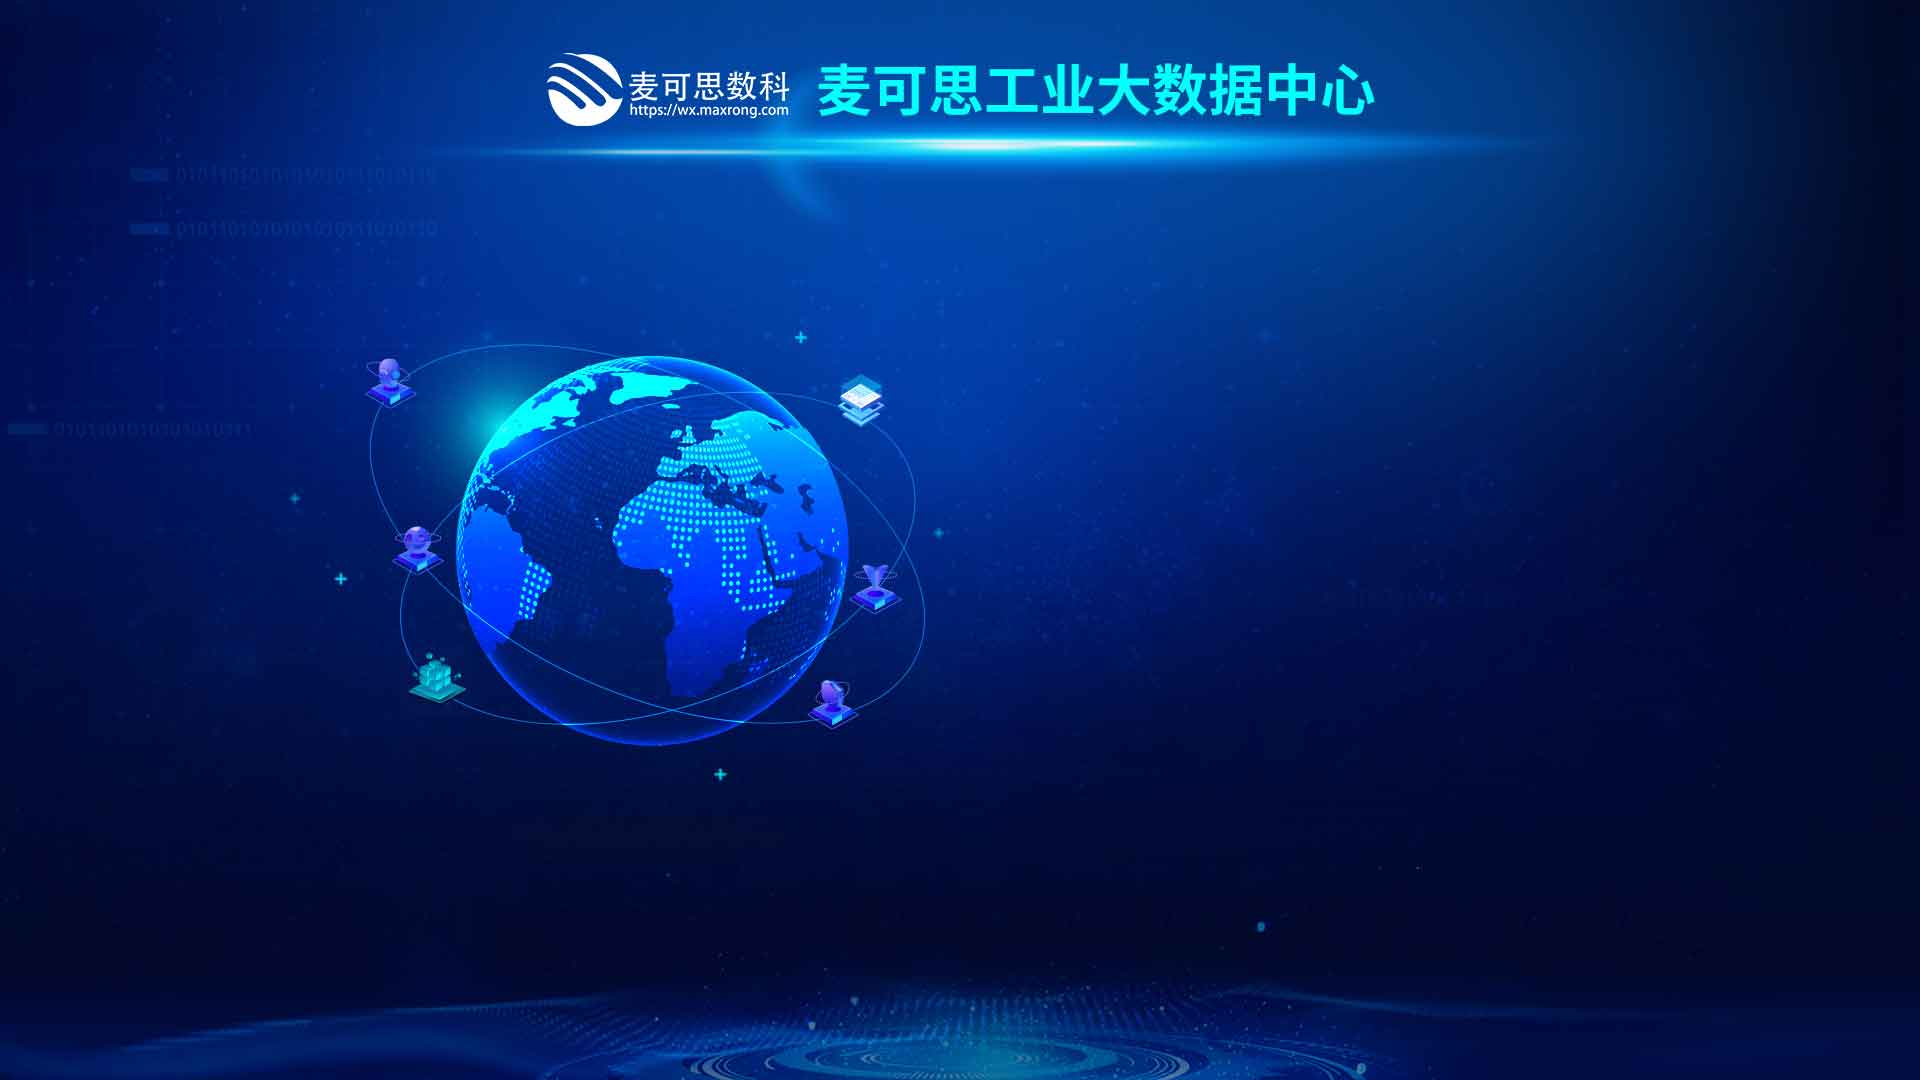
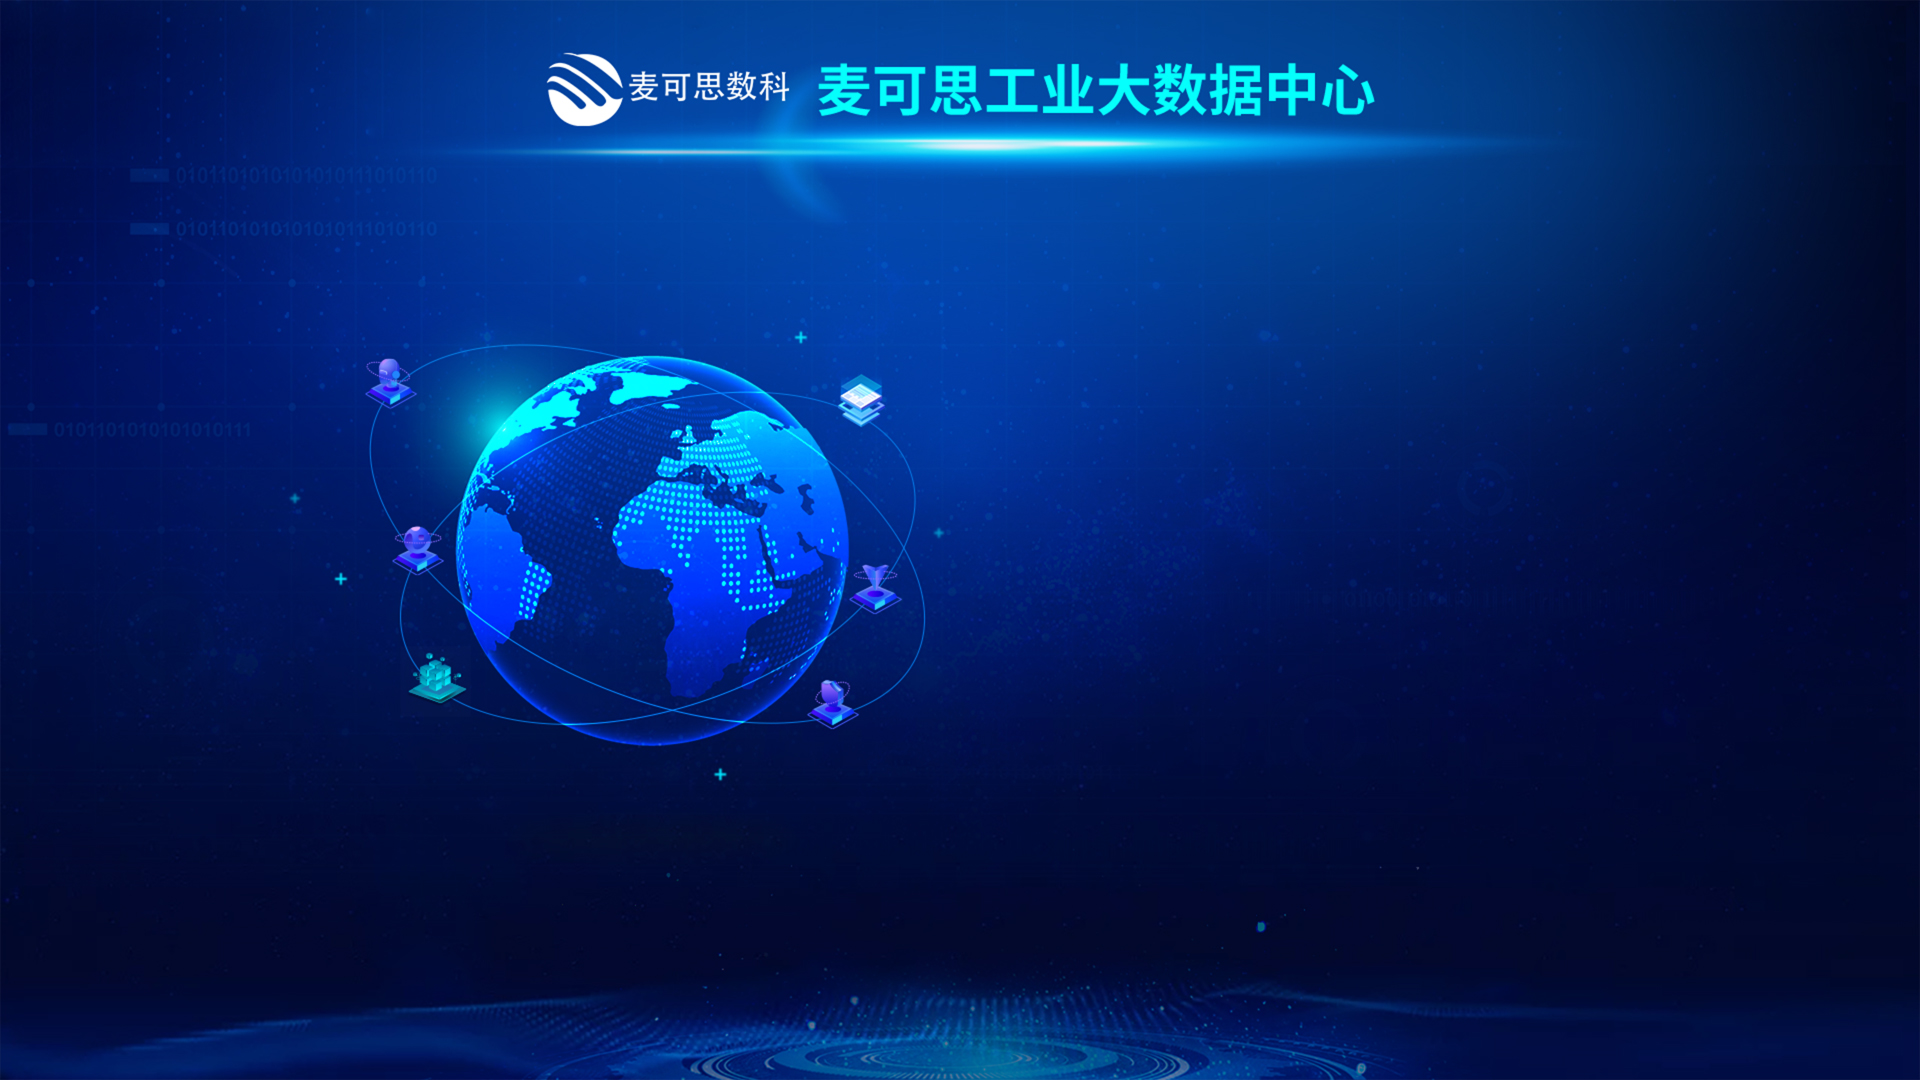
bbb

diff --git a/src/components/doubleCarbon/electricityUsage.vue b/src/components/doubleCarbon/electricityUsage.vue
@@ -1,11 +1,11 @@
 <!--
- * @Author: By
- * @Date: 2022-07-27 14:16:32
- * @LastEditTime: 2022-08-29 19:28:36
- * @LastEditors: By
- * @Description: 园区工业用电情况（单位：万度）
- * @FilePath: \big-screen-vue3\src\components\doubleCarbon\electricityUsage.vue
- * 可以输入预定的版权声明、个性签名、空行等
+ * @Author: BY by15242952083@outlook.com
+ * @Date: 2022-09-08 11:57:45
+ * @LastEditors: BY by15242952083@outlook.com
+ * @LastEditTime: 2022-09-08 21:27:43
+ * @FilePath: \big-screen\src\components\doubleCarbon\electricityUsage.vue
+ * @Description:园区工业用电情况（单位：万度）
+ * Copyright (c) 2022 by BY email: by15242952083@outlook.com, All Rights Reserved.
 -->
 
 <script>
@@ -14,15 +14,6 @@ export default {
   data() {
     return {
       electricityUsageOption: {
-        // legend: {
-        //   show: true,
-        //   left: 'center',
-        //   top: 'bottom',
-        //   width: '50%',
-        //   itemWidth: '300',
-        //   // orient: 'horizontal',
-        //   // data: ['本月', '去年同月', '增长率'],
-        // },
         legend: {
           show: true,
           top: 'bottom',
@@ -32,40 +23,28 @@ export default {
             color: '#E6E6E6',
           },
         },
-        tooltip: { trigger: 'axis' },
-        grid: {
-          left: '3%',
-          right: '4%',
-          top: '20%',
-          bottom: '10%',
-          containLabel: true,
+        tooltip: {
+          trigger: 'axis',
+          axisPointer: { animation: false },
         },
+        grid: { left: '3%', right: '4%', top: '20%', bottom: '10%', containLabel: true },
         xAxis: {
           type: 'category',
           boundaryGap: false,
           data: [],
-          axisLine: { lineStyle: { color: '#FFFFFF' } },
+          axisLine: { lineStyle: { color: '#dcdcdc' } },
+          triggerEvent: true,
         },
         yAxis: {
           type: 'value',
-          axisLine: { lineStyle: { color: '#FFFFFF' } },
+          axisLine: { lineStyle: { color: '#dcdcdc' } },
         },
-        series: [{
-          name: '本月',
-          type: 'line',
-          stack: 'Total',
-          data: [],
-        }, {
-          name: '去年同月',
-          type: 'line',
-          stack: 'Total',
-          data: [],
-        }, {
-          name: '增长率',
-          type: 'line',
-          stack: 'Total',
-          data: [],
-        }],
+        color: ['#60C1FF', '#FFC554', '#FF5F5F'],
+        series: [
+          { name: '本月', type: 'line', stack: 'Total', data: [] },
+          { name: '去年同月', type: 'line', stack: 'Total', data: [] },
+          { name: '增长率', type: 'line', stack: 'Total', data: [] },
+        ],
       },
       electricityUsageChart: null,
     }
@@ -73,19 +52,18 @@ export default {
   watch: { electricityUsageProp() { this.initElectricityUsageChart() } },
   methods: {
     initElectricityUsageChart() {
-      this.initCharts()
+      const temp = eCharts.init(this.$refs.electricityUsageRef)
+      window.addEventListener('resize', () => {
+        this.electricityUsageChart.resize()
+      })
       this.electricityUsageOption.xAxis.data = this.electricityUsageProp.map((e) => { return e['数据'] })
       this.electricityUsageOption.series[0].data = this.electricityUsageProp.map((e) => { return e['数值1'] })
       this.electricityUsageOption.series[1].data = this.electricityUsageProp.map((e) => { return e['数值2'] })
       this.electricityUsageOption.series[2].data = this.electricityUsageProp.map((e) => { return e['图标'] })
-      this.electricityUsageChart.setOption(this.electricityUsageOption)
+      temp.setOption(this.electricityUsageOption)
+      this.electricityUsageChart = temp
     },
-    initCharts() {
-      this.electricityUsageChart = eCharts.init(this.$refs.electricityUsageRef)
-      window.addEventListener('resize', () => {
-        this.electricityUsageChart.resize()
-      })
-    },
+
   },
 
 }

diff --git a/src/components/corporatePortrait/overviewPage.vue b/src/components/corporatePortrait/overviewPage.vue
@@ -1,10 +1,10 @@
 <!--
  * @Author: By
  * @Date: 2022-07-28 14:16:30
- * @LastEditTime: 2022-08-27 16:21:43
- * @LastEditors: By
+ * @LastEditTime: 2022-09-08 20:44:53
+ * @LastEditors: BY by15242952083@outlook.com
  * @Description:
- * @FilePath: \big-screen-vue3\src\components\corporatePortrait\overviewPage.vue
+ * @FilePath: \big-screen\src\components\corporatePortrait\overviewPage.vue
  * 可以输入预定的版权声明、个性签名、空行等
 -->
 <script>
@@ -87,7 +87,7 @@ export default {
 
 <template>
   <div class="overview">
-    <el-carousel ref="cardShow" class="overview-top" :autoplay="false" height="100%" arrow="never">
+    <el-carousel ref="cardShow" class="overview-top" :autoplay="true" height="100%" arrow="never">
       <el-carousel-item v-for="item in 4" :key="item">
         <div class="overview-content">
           <div class="overview-content-item">
@@ -112,8 +112,8 @@ export default {
           </div>
         </div>
       </el-carousel-item>
-      <el-image class="left" :src="left" fit="fill" @click="handoffFun('left')" />
-      <el-image class="right" :src="right" fit="fill" @click="handoffFun('right')" />
+      <!-- <el-image class="left" :src="left" fit="fill" @click="handoffFun('left')" />
+      <el-image class="right" :src="right" fit="fill" @click="handoffFun('right')" /> -->
     </el-carousel>
     <div class="overview-bottom">
       <div v-for="(item, index) in subItemizationList" :key="index" class="sub-itemization-row">
@@ -178,6 +178,7 @@ export default {
       background-size: 100% 100%;
       position: relative;
       padding: 66px 28px 40px;
+      // padding: 66px 28px 40px;
       display: flex;
       justify-content: space-between;
       align-items: center;

diff --git a/src/pages/login.vue b/src/pages/login.vue
@@ -234,7 +234,7 @@ const forgotPass = async (formEl: FormInstance | undefined) => {
         // pass: phoneLoginForm.value.verificationCode,
         // tel: phoneLoginForm.value.phoneNum,
         // type: 2,
-        usertype: '',
+        // usertype: '',
         tel: forgotPassForm.value.tel,
         pass1: forgotPassForm.value.pass,
         pass2: forgotPassForm.value.rePass,
@@ -345,7 +345,7 @@ const telInputFun = (e) => {
       v-else-if="accountFlag === 'forgotPassword'" ref="forgotPassDom" :rules="forgotRules"
       class="forgot-password-content" :model="forgotPassForm" ml-53 mr-56 label-width="120px"
     >
-      <el-form-item class="user-type-item" mt-34 prop="userType" label="用户类型">
+      <el-form-item v-show="false" class="user-type-item" mt-34 prop="userType" label="用户类型">
         <el-select v-model="forgotPassForm.userType" placeholder="请选择用户类型">
           <el-option v-for="item in userTypeOptions" :key="item.value" :label="item.label" :value="item.value" />
         </el-select>

diff --git a/src/components/doubleCarbon/businessRankings.vue b/src/components/doubleCarbon/businessRankings.vue
@@ -1,10 +1,10 @@
 <!--
  * @Author: By
  * @Date: 2022-07-27 11:38:24
- * @LastEditTime: 2022-08-19 19:05:58
- * @LastEditors: By
+ * @LastEditTime: 2022-09-08 20:40:02
+ * @LastEditors: BY by15242952083@outlook.com
  * @Description: 企业排名组件
- * @FilePath: \big-screen-vue3\src\components\doubleCarbon\businessRankings.vue
+ * @FilePath: \big-screen\src\components\doubleCarbon\businessRankings.vue
  * 可以输入预定的版权声明、个性签名、空行等
 -->
 
@@ -36,7 +36,7 @@ export default {
           axisLabel: { color: '#00B8FF', margin: 37 }, // y轴文字配置
           axisLine: { show: false },
         }, {
-          name: '单位（亿元）',
+          name: '单位（万度）',
           axisTick: { show: false },
           axisLabel: { show: false },
           axisLine: { show: false },

diff --git a/src/layouts/screen.vue b/src/layouts/screen.vue
@@ -2,7 +2,7 @@
  * @Author: BY by15242952083@outlook.com
  * @Date: 2022-09-03 01:56:14
  * @LastEditors: BY by15242952083@outlook.com
- * @LastEditTime: 2022-09-07 20:02:34
+ * @LastEditTime: 2022-09-08 12:19:39
  * @FilePath: \big-screen\src\layouts\screen.vue
  * @Description: 页面layout
  * Copyright (c) 2022 by BY email: by15242952083@outlook.com, All Rights Reserved.
@@ -97,7 +97,7 @@ const jumpToLogin = () => {
     list-style: none
   }
 
-  background: no-repeat url("~/assets/image/common/background.png");
+  background: no-repeat url("~/assets/image/common/background.jpg");
   background-size: 100% 100%;
 
   header {
@@ -124,6 +124,12 @@ const jumpToLogin = () => {
       left: 0;
       width: 210px;
       height: 59px;
+    }
+
+    .click{
+      span{
+        color: white;
+      }
     }
   }
 

diff --git a/src/components/enterprise/enterpriseMap.vue b/src/components/enterprise/enterpriseMap.vue
@@ -2,7 +2,7 @@
  * @Author: BY by15242952083@outlook.com
  * @Date: 2022-09-06 18:58:43
  * @LastEditors: BY by15242952083@outlook.com
- * @LastEditTime: 2022-09-06 20:27:03
+ * @LastEditTime: 2022-09-08 21:35:22
  * @FilePath: \big-screen\src\components\enterprise\enterpriseMap.vue
  * @Description: 产业图鉴地图
  * Copyright (c) 2022 by BY email: by15242952083@outlook.com, All Rights Reserved.
@@ -19,8 +19,8 @@ const option = {
   geo: {
     map: 'map',
     aspectScale: 0.75, // 长宽比
-    zoom: 1,
-    roam: true,
+    zoom: 1.1,
+    roam: false,
     label: {
       show: true,
       color: 'white',
@@ -158,7 +158,7 @@ onMounted(() => {
   // initMap('430000')
   // initMap('430405')
   // initMap('430000')
-  getMap('430000')
+  getMap('100000')
 })
 </script>
 

diff --git a/src/components/pandect/pandectMap.vue b/src/components/pandect/pandectMap.vue
@@ -2,7 +2,7 @@
  * @Author: BY by15242952083@outlook.com
  * @Date: 2022-09-01 16:29:28
  * @LastEditors: BY by15242952083@outlook.com
- * @LastEditTime: 2022-09-07 19:34:36
+ * @LastEditTime: 2022-09-08 20:39:15
  * @FilePath: \big-screen\src\components\pandect\pandectMap.vue
  * @Description: http配置
  * Copyright (c) 2022 by BY email: by15242952083@outlook.com, All Rights Reserved.
@@ -20,7 +20,7 @@ const option = {
     map: 'map',
     aspectScale: 0.75, // 长宽比
     zoom: 1,
-    roam: true,
+    roam: false,
     label: {
       show: true,
       color: 'white',
@@ -158,7 +158,7 @@ onMounted(() => {
   // initMap('430000')
   // initMap('430405')
   // initMap('430000')
-  getMap('430000')
+  getMap('100000')
 })
 </script>
 

diff --git a/src/pages/publicOpinionMonitoring.vue b/src/pages/publicOpinionMonitoring.vue
@@ -1,7 +1,7 @@
 <!--
  * @Author: By
  * @Date: 2022-07-28 17:20:30
- * @LastEditTime: 2022-09-06 18:47:44
+ * @LastEditTime: 2022-09-08 15:10:13
  * @LastEditors: BY by15242952083@outlook.com
  * @Description: 舆情监控
  * @FilePath: \big-screen\src\pages\publicOpinionMonitoring.vue
